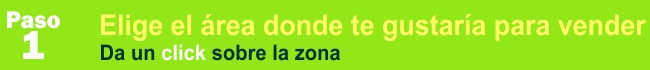
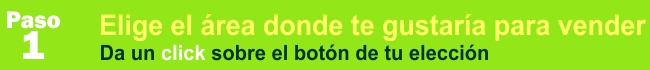
modificacion de la pantalla index con el nuevo mapa

Changed region(s): [[0.2154, 0.6286, 0.7692, 0.8857], [0.1538, 0.6286, 0.1846, 0.6857]]

diff --git a/festival2019/FRONT/css/expo2019.css b/festival2019/FRONT/css/expo2019.css
@@ -1,0 +1,182 @@
+
+#fondofb {
+	height: 700px;
+	width: 800px;
+}
+#todo {
+	width: 100%;
+}
+#grupo {
+	position: relative;
+	height: 700px;
+	width: 800px;
+	margin: auto;
+}
+#cabeza {
+	position: absolute;
+	height: 50px;
+	width: 800px;
+	left: 0px;
+	top: 0px;
+	background-image: url(../img/cabezaInscrip.jpg);
+}
+#contene01 {
+	position: absolute;
+	height: 70px;
+	width: 800px;
+	left: 0px;
+	top: 50px;
+}
+#paso01 {
+	position: absolute;
+	height: 70px;
+	width: 650px;
+	left: 0px;
+	background-image: url(../img/paso01.jpg);
+}
+#paso02 {
+	position: absolute;
+	height: 70px;
+	width: 75px;
+	left: 650px;
+	background-image: url(../img/paso02A.jpg);
+}
+#paso03 {
+	position: absolute;
+	height: 70px;
+	width: 75px;
+	left: 725px;
+	background-image: url(../img/paso03A.jpg);
+}
+#contene02 {
+	position: absolute;
+	height: 70px;
+	width: 800px;
+	top: 120px;
+	background-image: url(../img/bisbis.gif);
+}
+#contene03 {
+	position: absolute;
+	height: 426px;
+	width: 685px;
+	top: 191px;
+	left: 0px;
+	background-image: url(../img/MapaGaleana.jpg);
+}
+#contene03bis {
+	position: absolute;
+	height: 428px;
+	width: 114px;
+	top: 191px;
+	left: 687px;
+	background-color: #0C0;
+}
+#arriba {
+	position: absolute;
+	height: 53px;
+	width: 113px;
+	background-image: url(../img/arribabots.jpg);
+}
+#bot01 {
+	position: absolute;
+	height: 80px;
+	width: 113px;
+	background-image: url(../img/BotZA01.jpg);
+	top: 53px;
+}
+#bot01:hover { 
+	background-image: url(../img/BotZA02.jpg);
+}
+#bot01b {
+	position: absolute;
+	height: 80px;
+	width: 113px;
+	background-image: url(../img/BotZA01.jpg);
+	top: 53px;
+}
+#bot02 {
+	position: absolute;
+	height: 80px;
+	width: 113px;
+	background-image: url(../img/BotZB01.jpg);
+	top: 133px;
+}
+#bot02:hover { 
+	background-image: url(../img/BotZB02.jpg);
+}
+#bot02b {
+	position: absolute;
+	height: 80px;
+	width: 113px;
+	background-image: url(../img/BotZB01.jpg);
+	top: 133px;
+}
+#bot03 {
+	position: absolute;
+	height: 80px;
+	width: 113px;
+	background-image: url(../img/BotZC01.jpg);
+	top: 213px;
+}
+#bot03:hover { 
+	background-image: url(../img/BotZC02.jpg);
+}
+#bot03b {
+	position: absolute;
+	height: 80px;
+	width: 113px;
+	background-image: url(../img/BotZC01.jpg);
+	top: 213px;
+}
+#bot04 {
+	position: absolute;
+	height: 80px;
+	width: 113px;
+	background-image: url(../img/BotZD01.jpg);
+	top: 293px;
+}
+#bot04:hover { 
+	background-image: url(../img/BotZD02.jpg);
+}
+#bot04b {
+	position: absolute;
+	height: 80px;
+	width: 113px;
+	background-image: url(../img/BotZD01.jpg);
+	top: 293px;
+}
+#abajo {
+	position: absolute;
+	height: 53px;
+	width: 113px;
+	background-image: url(../img/abajobots.jpg);
+	top: 373px;
+}
+#contene04 {
+	position: absolute;
+	height: 50px;
+	width: 800px;
+	top: 620px;
+	visibility: visible;
+}
+#salir {
+	position: absolute;
+	height: 49px;
+	width: 247px;
+	top: 1px;
+	left: 300px;
+	background-image: url(../img/salir01.jpg);
+}
+#salir:hover { 
+	background-image: url(../img/salir02.jpg);
+}
+#contene05 {
+	position: absolute;
+	height: 50px;
+	width: 800px;
+	top: 680px;
+	text-align: center;
+	font-family: Verdana, Geneva, sans-serif;
+	font-size: 16px;
+	color: #390;
+}

diff --git a/festival2019/FRONT/views/expo2019.html b/festival2019/FRONT/views/expo2019.html
@@ -1,0 +1,38 @@
+<div ng-controller = "cat" id="todo">
+    <div id="grupo">
+      <div id="fondofb">
+      <div id="cabeza"></div>
+        <div id="contene01">
+            <div id="paso01"></div>
+            <div id="paso02"></div>
+            <div id="paso03"></div>
+        </div>
+        <div id="contene02"></div>
+        <div id="contene03"></div>
+        <div id="contene03bis">
+            <div id="arriba"></div>
+            <a ng-show = "disponible[0]" ng-click = 'catego("AA")' href="#/Artesano" target="_self"><div id="bot01"></div></a>
+            <a ng-show = "!disponible[0]" target="_self"><div id="bot01b"></div></a>
+	        <a href="ZonaA/ZonaA menu.html"><div id="bot01"></div></a>
+
+	        <a ng-show = "disponible[1]" ng-click = 'catego("GA")' href="#/GastronomoA" target="_self"><div id="bot02"></div></a>
+            <a ng-show = "!disponible[1]" target="_self"><div id="bot02b"></div></a>
+	        <a href="ZonaB/ZonaB menu.html"><div id="bot02"></div></a>
+
+	        <a ng-show = "disponible[4]" ng-click = 'catego("GD")' href="#/GastronomoD" target="_self"><div id="bot03"></div></a>
+            <a ng-show = "!disponible[4]" target="_self"><div id="bot03b"></div></a>
+	        <a href="ZonaC/ZonaC.html"><div id="bot03"></div></a>
+
+	        <a ng-show = "disponible[4]" ng-click = 'catego("GD")' href="#/GastronomoD" target="_self"><div id="bot04"></div></a>
+            <a ng-show = "!disponible[4]" target="_self"><div id="bot04b"></div></a>
+	        <a href="ZonaD/ZonaD menu.html"><div id="bot04"></div>
+	        <div id="abajo"></div>
+
+        </div>
+        <div id="contene04">
+        <a href="http://www.sonparamilo.org.mx/"><div id="salir"></div></a>
+        </div>
+        
+      </div>
+    </div>
+</div>

diff --git a/festival2019/FRONT/index.html b/festival2019/FRONT/index.html
@@ -2,7 +2,8 @@
 <html ng-app="Milo">
 	<head>
 		<link rel="stylesheet" type="text/css" href="./css/bootstrap.min.css">
-		<link rel="stylesheet" type="text/css" href="./css/expo2018.css">
+		<!--<link rel="stylesheet" type="text/css" href="./css/expo2018.css">-->
+		<link rel="stylesheet" type="text/css" href="./css/expo2019.css">
 		<link rel="stylesheet" type="text/css" href="./css/Artesano.css">
 		<link rel="stylesheet" type="text/css" href="./css/Gastronomo.css">
 		<link rel="stylesheet" type="text/css" href="./css/GastronomoA.css">
@@ -11,7 +12,7 @@
 		<link rel="stylesheet" type="text/css" href="./css/GastronomoD.css">
 		<link rel="stylesheet" type="text/css" href="./css/GastronomoE.css">
 		<link rel="icon" type="image/gif" href="./img/Lagartija.gif" />
-		<title>Son Para Milo 2018</title>
+		<title>Son Para Milo 2019</title>
 	</head>
 	<body>
 
@@ -51,7 +52,7 @@
 		        <!-- FOOTER -->
 		        <footer class="text-center">
 		            <hr>
-		            <strong>- Son para Milo 2018 / <a href="mailto:festivalsonparamilo@gmail.com">festivalsonparamilo@gmail.com</a> / Informes: 55 21 79 03 83 -</strong>
+		            <strong>- Son para Milo 2019 / <a href="mailto:festivalsonparamilo@gmail.com">festivalsonparamilo@gmail.com</a> / Informes: 55 21 79 03 83 -</strong>
 		        </footer>
 		    </div>
 		    <div class=col-md-1></div>

diff --git a/festival2019/FRONT/app.js b/festival2019/FRONT/app.js
@@ -1,7 +1,7 @@
 var app = angular.module("Milo",['ngRoute']);
 app.config(function($routeProvider) {
    $routeProvider
-   .when('/' ,{templateUrl: './views/expo2018.html', controller: 'cat'})
+   .when('/' ,{templateUrl: './views/expo2019.html', controller: 'cat'})
    .when('/GastronomoA' ,{templateUrl: './views/GastronomoA.html', controller: 'formulario'})
    .when('/GastronomoB' ,{templateUrl: './views/GastronomoB.html', controller: 'formulario'})
    .when('/GastronomoC' ,{templateUrl: './views/GastronomoC.html', controller: 'formulario'})

diff --git a/festival2019/FRONT/js/controllers/categoriaController.js b/festival2019/FRONT/js/controllers/categoriaController.js
@@ -113,6 +113,6 @@ app.controller("cat",['$scope','$rootScope','$http',function($scope,$rootScope,$
 
         
     };
-    init();
+    //init();
 }]);
 
